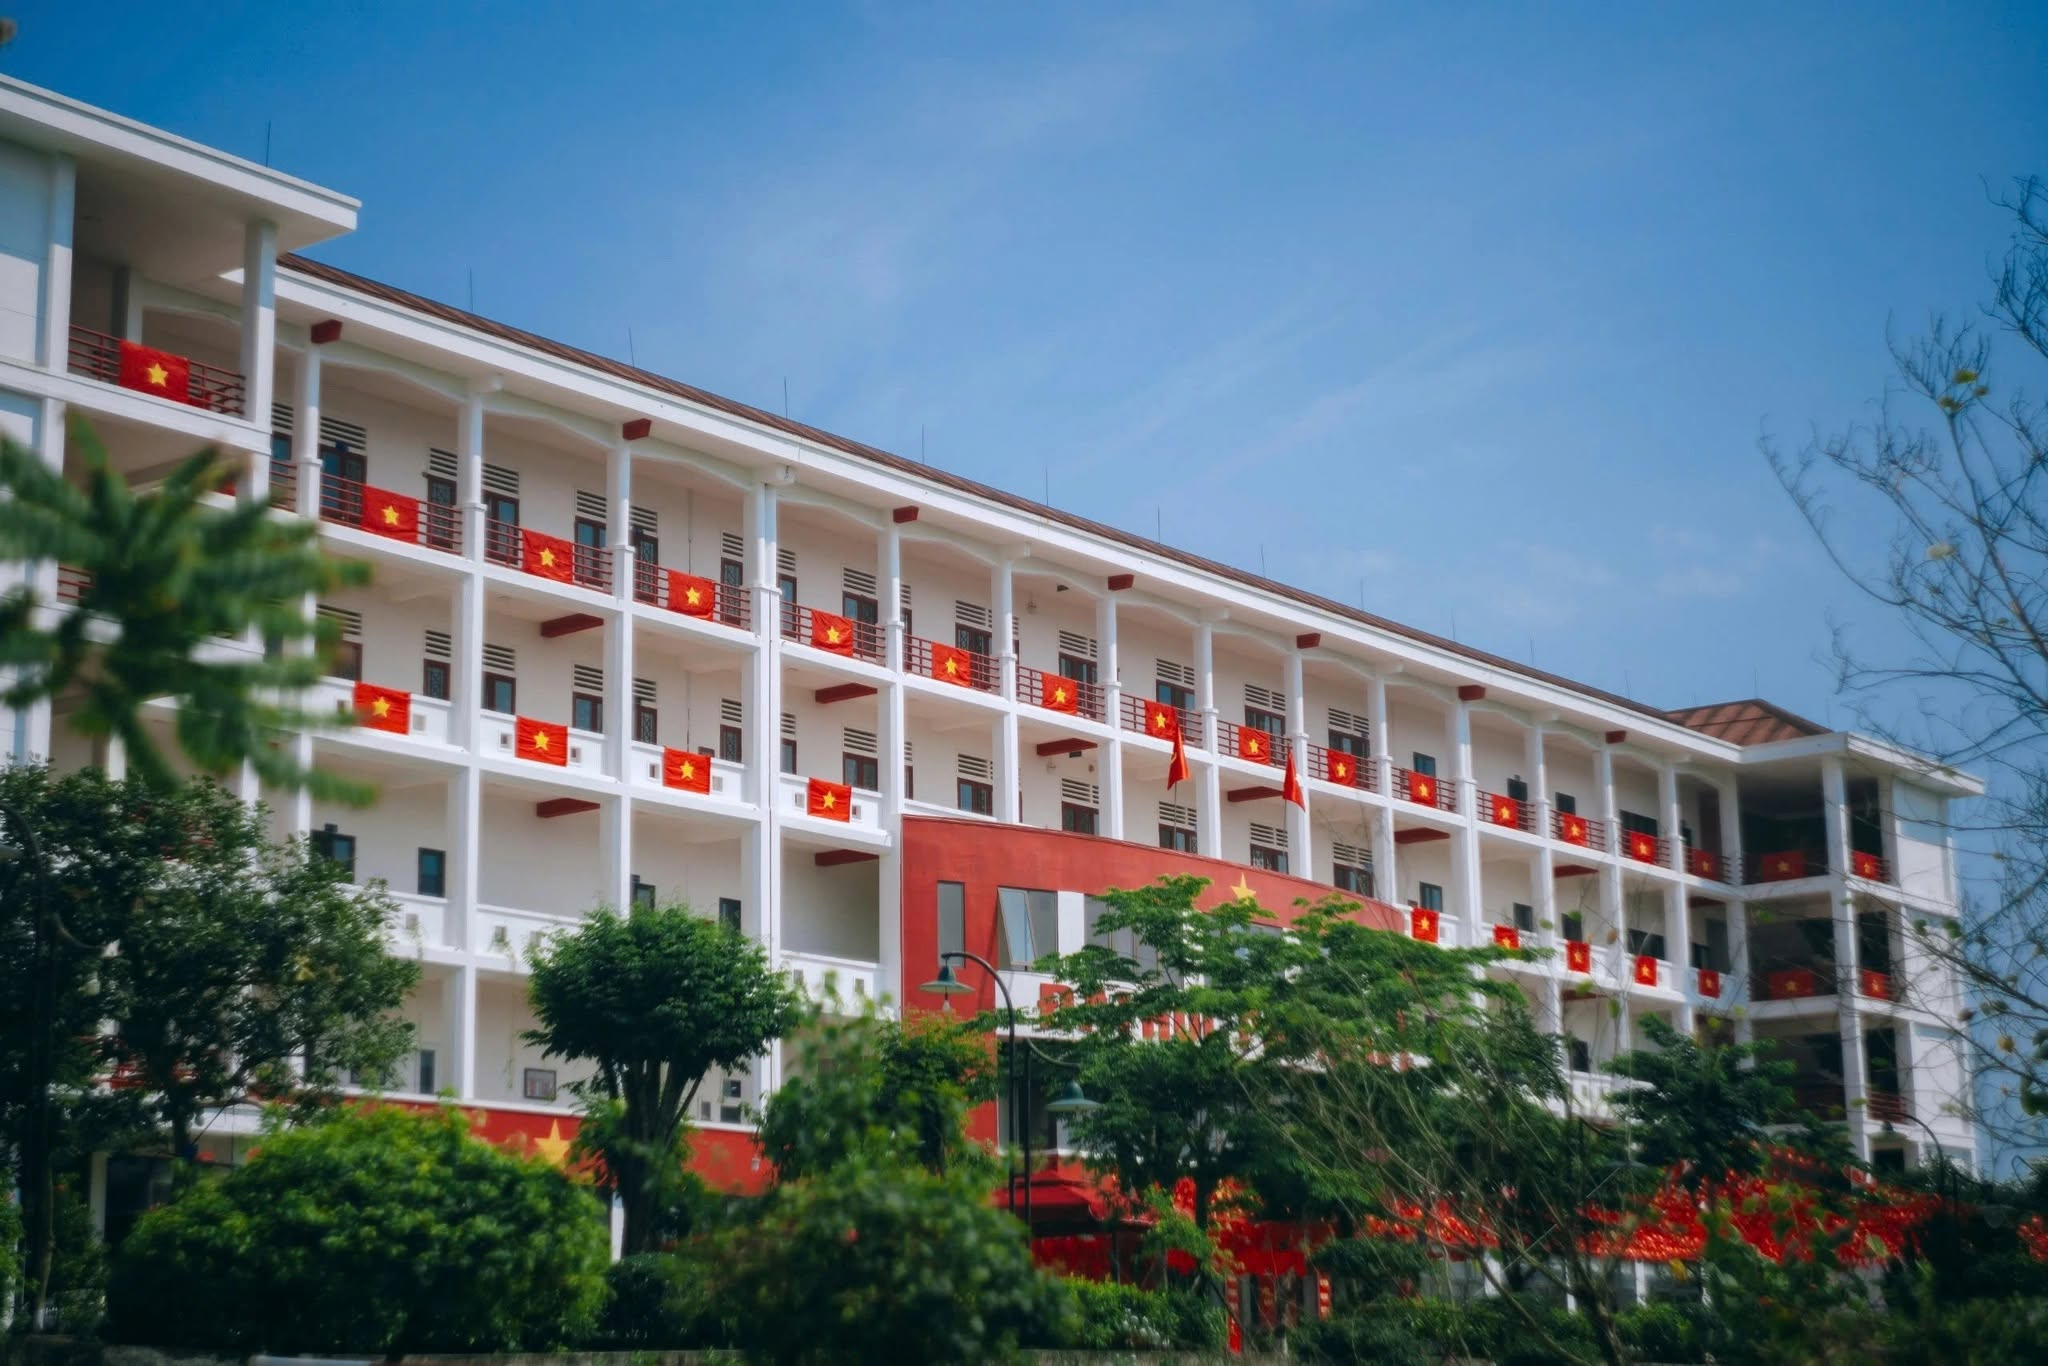
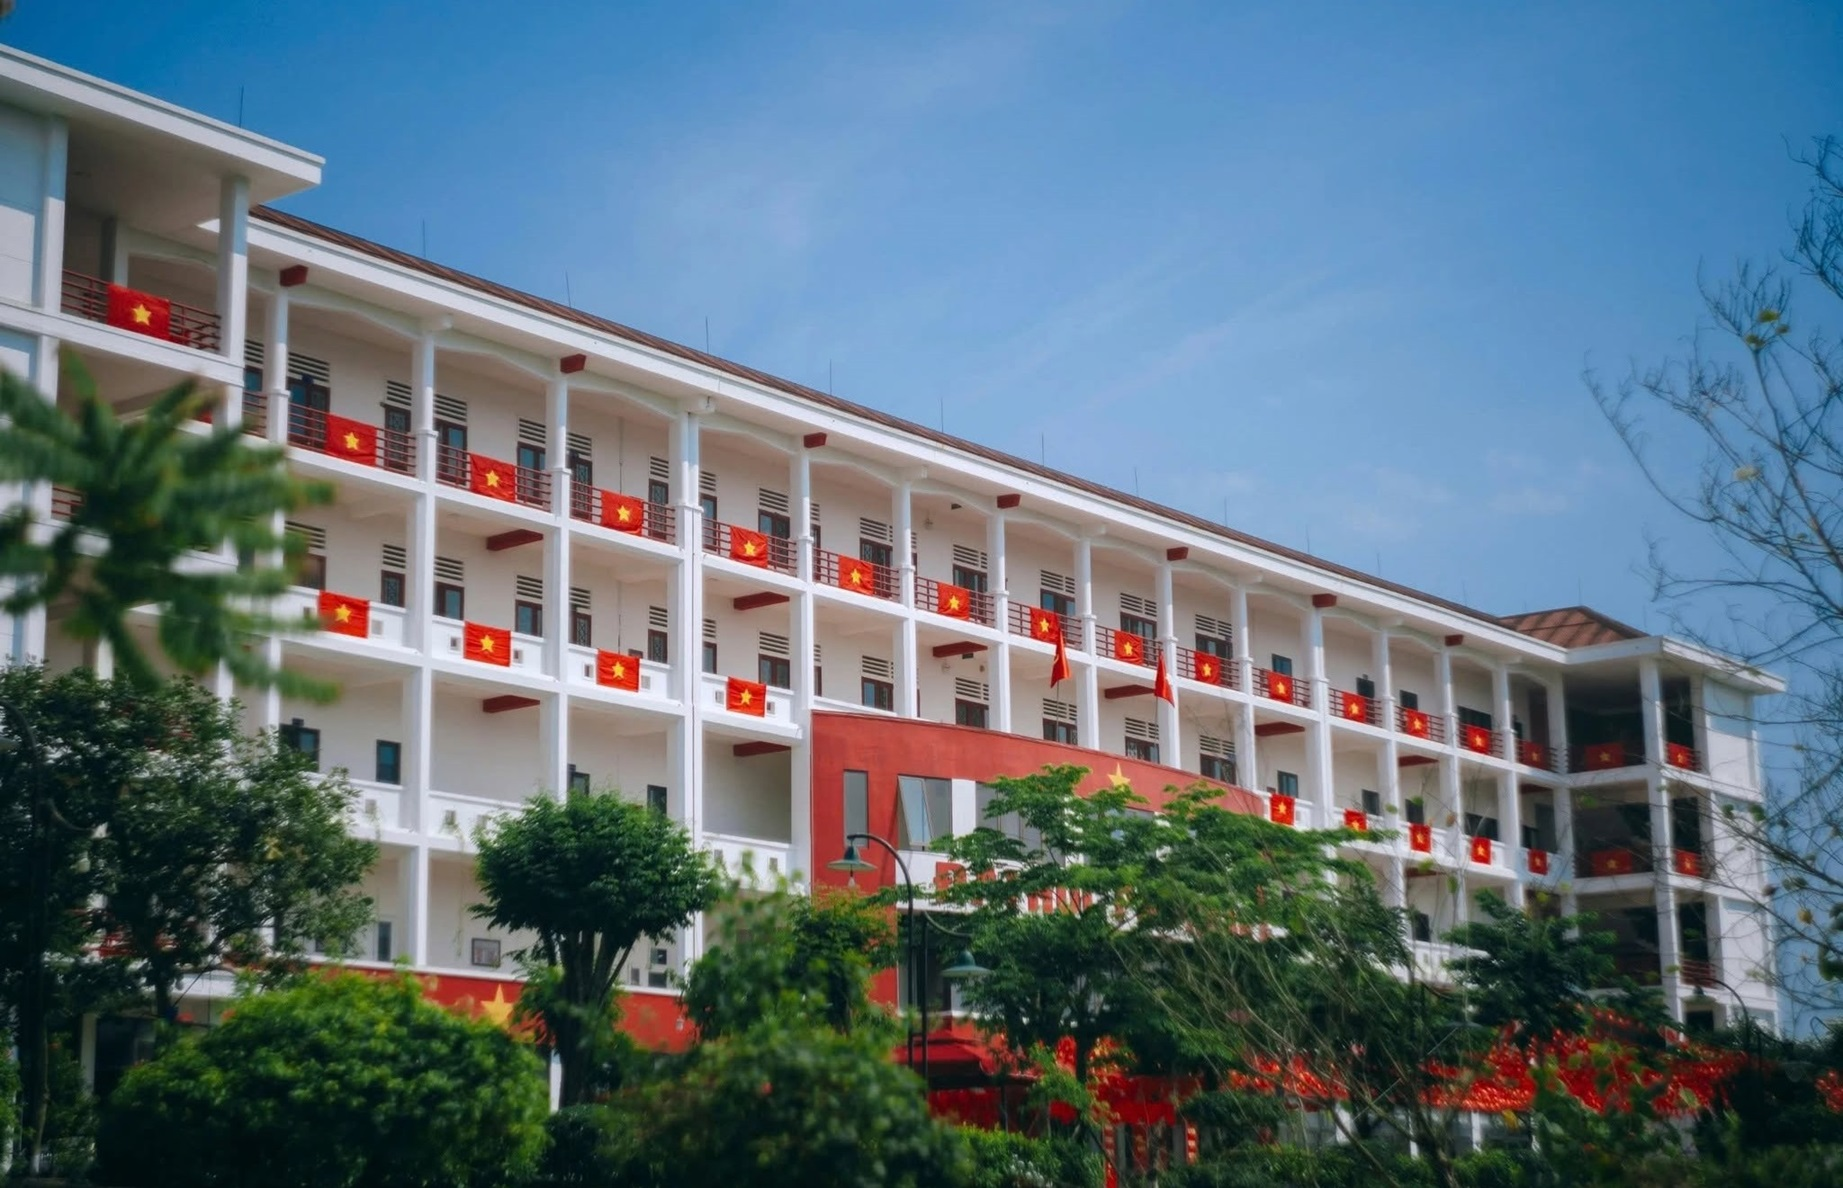
anh nền

diff --git a/src/pages/Home.jsx b/src/pages/Home.jsx
@@ -107,17 +107,36 @@ const Home = ({ currentUser }) => {
   // sáng hay tối — đậm dần xuống phía dưới, đúng chỗ đặt tiêu đề/mô tả.
   const PHOTO_SCRIM = 'linear-gradient(180deg, rgba(15,23,42,0.30) 0%, rgba(15,23,42,0.50) 45%, rgba(15,23,42,0.82) 100%)';
 
-  // ĐÃ SỬA: lúc trước để banner CHE lên đầu trang (trên dòng chào) rồi fade DẦN
-  // XUỐNG, thành ra ảnh rõ ở TRÊN, trắng ở DƯỚI — ngược ý ông muốn. Giờ đổi lại:
-  // banner nằm Ở DƯỚI lưới thẻ (không đè lên dòng chào hay thẻ nào cả, chỉ là 1
-  // khối trang trí thêm vào SAU cùng), ảnh rõ nét nhất ở phần dưới của chính nó,
-  // mép TRÊN của banner mới là chỗ fade mờ dần từ trắng (hoà vào màu nền trắng
-  // của cả trang phía trên nó) xuống ảnh — để không bị đường ranh giới cứng ngay
-  // chỗ tiếp giáp với lưới thẻ.
-  const HOME_BG_FADE = 'linear-gradient(180deg, #ffffff 0%, rgba(255,255,255,0.7) 18%, rgba(255,255,255,0.25) 40%, rgba(255,255,255,0) 65%)';
+  // ĐÃ SỬA (lần 4): trước đây tính chiều cao/vị trí banner bằng cách ƯỚC LƯỢNG
+  // px của Header+Navbar (min-height: calc(100vh - 170px)) rồi kéo dư 4 phía —
+  // vừa không chính xác (hụt/dư tuỳ máy) vừa gây thanh cuộn thừa khi kéo dư v ượt
+  // khỏi khung .home-wrapper thật. Giờ đổi cách hoàn toàn: banner dùng position:
+  // fixed, LUÔN đúng bằng khung nhìn (viewport) thật — không cần đo/đoán px của
+  // Header/Navbar nữa, không bao giờ lệch, cũng không tạo thanh cuộn (phần tử
+  // fixed không tính vào chiều cao cuộn trang). Ảnh nằm dưới cùng (z-index âm),
+  // phần trùng lên Header/Navbar không thấy được vì 2 khối đó có nền đặc (trắng/
+  // xanh) vẽ đè lên trên — nên nhìn NHƯ THỂ ảnh chỉ nằm trong khoảng trống giữa
+  // topbar và cạnh dưới màn hình, đúng ý ông. Điểm dừng gradient (đọc từ 0% =
+  // đỉnh màn hình, kể cả phần bị Header/Navbar che, xuống 100% = đáy màn hình):
+  //   - 0% -> 20%: trắng gần như tuyệt đối — vùng này phần lớn bị Header/Navbar
+  //     che khuất rồi nên không cần lo, chỉ cần đủ trắng cho đoạn vừa lộ ra ngay
+  //     dưới Navbar (chỗ đặt câu chào).
+  //   - 20% -> 48%: trắng tinh 100% — phủ kín khu vực câu chào + lưới thẻ.
+  //   - 65% -> 100%: giảm dần độ trắng, tới đáy màn hình thì trong suốt hẳn
+  //     (ảnh hiện rõ nét 100%).
+  const HOME_BG_FADE = 'linear-gradient(180deg, rgba(255,255,255,0.85) 0%, #ffffff 20%, #ffffff 48%, rgba(255,255,255,0.5) 65%, rgba(255,255,255,0.12) 85%, rgba(255,255,255,0) 100%)';
 
   return (
     <div className="home-wrapper">
+      {/* ĐÃ THÊM: ảnh nền thật — position: fixed nên tự động khớp CHÍNH XÁC khung
+          nhìn trình duyệt (xem giải thích chi tiết ở HOME_BG_FADE bên trên), nằm
+          SAU câu chào + lưới thẻ (z-index âm) nên không chặn click/che chữ. */}
+      <div
+        className="home-page-backdrop"
+        style={{ backgroundImage: `${HOME_BG_FADE}, url(${imgHomeBg})` }}
+        aria-hidden="true"
+      ></div>
+
       <div className="home-welcome mb-4">
         <h3 className="fw-bold mb-1">Chào {displayName} 👋</h3>
         <p className="text-muted mb-0">Chọn một chức năng bên dưới để bắt đầu làm việc.</p>
@@ -148,15 +167,6 @@ const Home = ({ currentUser }) => {
       {visibleCards.length === 0 && (
         <div className="alert alert-warning">Tài khoản của bạn chưa được phân quyền sử dụng chức năng nào.</div>
       )}
-
-      {/* ĐÃ THÊM: banner ảnh trang trí SAU cùng, nằm dưới lưới thẻ theo dòng chảy
-          bình thường (không absolute, không đè lên gì) — ảnh rõ nét ở nửa dưới,
-          mép trên tự mờ hoà vào nền trắng phía trên nó. */}
-      <div
-        className="home-bg-banner"
-        style={{ backgroundImage: `${HOME_BG_FADE}, url(${imgHomeBg})` }}
-        aria-hidden="true"
-      ></div>
     </div>
   );
 };

diff --git a/src/pages/Home.css b/src/pages/Home.css
@@ -3,6 +3,17 @@
    ======================================================== */
 .home-wrapper {
   padding: 8px 4px 24px;
+  /* Không cần position/overflow/min-height gì đặc biệt nữa — .home-page-backdrop giờ
+     dùng position: fixed (tự bám khung nhìn trình duyệt), không phụ thuộc kích
+     thước hay vị trí của .home-wrapper nữa. Xem chi tiết ở cuối file. */
+}
+
+.home-welcome {
+  /* ĐÃ THÊM: giữ câu chào nổi trên ảnh nền — vùng này đã được fade trắng gần như
+     tuyệt đối (xem HOME_BG_FADE trong Home.jsx) nên KHÔNG cần thêm khung nền gì
+     phía sau chữ nữa, chữ tự đọc rõ trên nền trắng. */
+  position: relative;
+  z-index: 1;
 }
 
 .home-welcome h3 {
@@ -13,6 +24,9 @@
   display: grid;
   grid-template-columns: repeat(auto-fit, minmax(240px, 1fr));
   gap: 20px;
+  /* ĐÃ THÊM: giữ lưới thẻ nổi trên ảnh nền (.home-page-backdrop ở z-index thấp hơn). */
+  position: relative;
+  z-index: 1;
 }
 
 /* Mỗi thẻ có nền là gradient màu riêng (gán qua style inline) + 1 icon lớn mờ
@@ -98,16 +112,33 @@
 }
 
 /* ========================================================
-   ĐÃ THÊM: ẢNH TRANG TRÍ PHÍA DƯỚI LƯỚI THẺ
-   Là 1 khối bình thường trong dòng chảy trang (không absolute) — nằm SAU lưới thẻ
-   nên không bao giờ đè lên dòng chào hay bất kỳ thẻ nào. Ảnh rõ nét nhất ở nửa
-   dưới của chính khối này; mép TRÊN tự mờ dần từ trắng (đúng màu nền trang phía
-   trên nó) xuống ảnh, để không bị đường ranh giới cứng ngay chỗ giáp lưới thẻ.
+   ĐÃ SỬA (lần 4): ẢNH NỀN THẬT — position: fixed, LUÔN khớp CHÍNH XÁC khung nhìn
+   (viewport) của trình duyệt, không cần đo/đoán chiều cao Header + Navbar bằng
+   px nữa (mấy lần trước ước lượng sai gây hụt/dư, kéo dư tay lại gây thanh cuộn
+   thừa). Vì position: fixed lấy mốc là VIEWPORT (không phải .home-wrapper hay
+   bất kỳ khối cha nào), nên:
+   - top/left: 0, width/height: 100vw/100vh -> phủ kín TOÀN BỘ màn hình, kể cả
+     phần "đè" lên Header + Navbar phía trên — nhưng KHÔNG thấy được đoạn đó vì
+     Header (nền trắng) và Navbar (nền xanh #037683) đều vẽ nền ĐẶC che kín ở
+     trên, nên nhìn ảnh NHƯ THỂ chỉ nằm gọn trong khoảng trống giữa topbar và
+     đáy màn hình — đúng ý muốn "fill vào khoảng trống ở giữa", không cần biết
+     Header/Navbar cao bao nhiêu px.
+   - z-index: -1 -> luôn nằm SAU cả Header/Navbar lẫn nội dung trang, không cần
+     z-index: 1 thủ công cho từng khối nội dung (dù vẫn giữ ở trên cho chắc).
+   - pointer-events: none -> không chặn click/thao tác gì trên trang.
+   - Không tạo thanh cuộn: phần tử fixed bị loại khỏi luồng tài liệu (document
+     flow) hoàn toàn nên không cộng thêm vào chiều cao cuộn của trang, khác hẳn
+     kiểu position: absolute kéo dư ra ngoài khung cha ở bản trước.
+   Độ trắng/rõ của ảnh theo chiều dọc do HOME_BG_FADE (Home.jsx) quyết định.
    ======================================================== */
-.home-bg-banner {
-  margin-top: 28px;
-  height: clamp(200px, 26vw, 320px);
-  border-radius: 16px;
+.home-page-backdrop {
+  position: fixed;
+  top: 0;
+  left: 0;
+  width: 100vw;
+  height: 100vh;
   background-size: cover;
   background-position: center;
+  z-index: -1;
+  pointer-events: none;
 }
